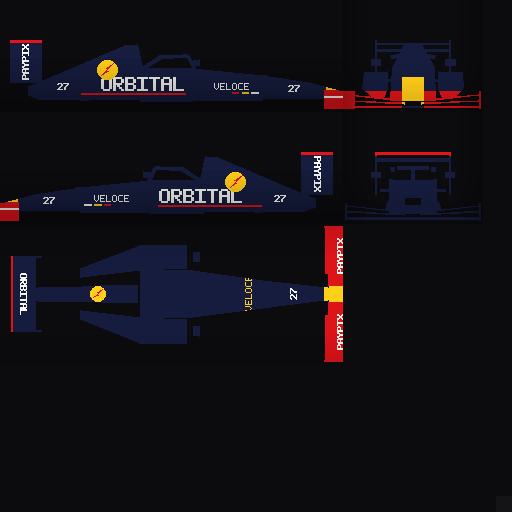
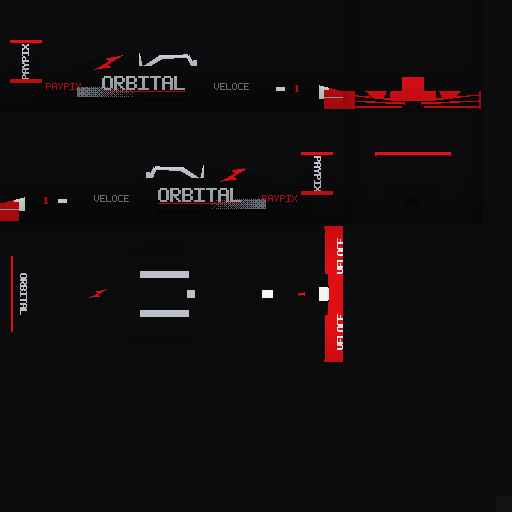
Repaint the Veloce F1 black with red and silver
Gloss black with a matte undercut, a red charging bolt on the engine cover,
red and white nose tip, red wing elements with grey-white lettering, red
endplate details, a silver halo, silver-grey ORBITAL on the sidepods with a
dithered metallic fade behind it, number 1 and a dark helmet.

diff --git a/art/cars/paint_skin.py b/art/cars/paint_skin.py
@@ -461,62 +461,83 @@ def paint_pleiad(sk):
 # --------------------------------------------------------------------------- the F1 car
 
 def paint_veloce(sk):
-    """Modern works F1 livery: matte navy, yellow nose tip, red wing elements,
-    a red bolt on a yellow sun disc on the engine cover, big white sponsors
-    (made-up ORBITAL and PAYPIX), number 27."""
-    navy = rgb(0.09, 0.11, 0.24)
-    sun = rgb(1.0, 0.8, 0.1)
-    red = rgb(0.86, 0.08, 0.1)
-    base(sk, navy)
+    """Black works F1 livery: gloss black with red highlights, a red charging
+    bolt on the engine cover, red wing elements and endplate details, a
+    silver halo, silver-grey sponsors (made-up ORBITAL and PAYPIX) and a
+    dithered metallic fade along the sidepod flanks. Number 1."""
+    black = rgb(0.045, 0.045, 0.05)
+    matte = rgb(0.03, 0.03, 0.035)
+    red = rgb(0.86, 0.06, 0.08)
+    silver = rgb(0.72, 0.74, 0.78)
+    grey = rgb(0.5, 0.52, 0.56)
+    base(sk, black)
 
-    def bolt(c, r):
-        """Red lightning bolt across a sun disc of radius r (pixels) at c."""
-        sk.disc(c, r, sun)
+    def bolt(c, r, col):
+        """Charging bolt, about r pixels from its centre to its tips."""
         x, y = c
-        pts = [(x - 0.55 * r, y + 0.5 * r), (x + 0.05 * r, y - 0.05 * r), (x - 0.1 * r, y - 0.15 * r),
-               (x + 0.6 * r, y - 0.6 * r), (x - 0.05 * r, y + 0.05 * r), (x + 0.1 * r, y + 0.15 * r)]
-        sk.paint(lambda d: d.polygon(pts, fill=red))
+        pts = [(x - 1.0 * r, y + 0.45 * r), (x + 0.05 * r, y - 0.1 * r), (x - 0.15 * r, y - 0.3 * r),
+               (x + 1.0 * r, y - 0.55 * r), (x - 0.05 * r, y + 0.1 * r), (x + 0.15 * r, y + 0.3 * r)]
+        sk.paint(lambda d: d.polygon(pts, fill=col))
+
+    def fade(side, y0, y1, z0, z1, a, b):
+        """Ordered-dither fade from colour a at y0 to colour b at y1."""
+        p0, p1 = sk.side_pt(side, y0, z0), sk.side_pt(side, y1, z1)
+        bayer = ((0, 8, 2, 10), (12, 4, 14, 6), (3, 11, 1, 9), (15, 7, 13, 5))
+
+        def draw(d):
+            xa, xb = sorted((round(p0[0]), round(p1[0])))
+            ya, yb = sorted((round(p0[1]), round(p1[1])))
+            for x in range(xa, xb):
+                t = (x - p0[0]) / (p1[0] - p0[0])
+                for y in range(ya, yb):
+                    d.point((x, y), fill=b if t * 16 > bayer[y % 4][x % 4] + 0.5 else a)
+        sk.paint(draw)
 
     for side in (-1, 1):
-        # nose tip, front wing endplates, number on the nose
-        sk.side_box(side, 2.2, 2.6, 0.0, 0.6, sun)
+        # red and white nose tip, red front wing endplates with a grey stripe
+        sk.side_box(side, 2.25, 2.6, 0.0, 0.6, red)
+        sk.side_box(side, 2.1, 2.25, 0.0, 0.6, WHITE)
         sk.side_box(side, 2.18, 2.62, 0.04, 0.31, red)
-        sk.side_box(side, 2.18, 2.62, 0.2, 0.23, WHITE)
-        sk.text("27", sk.side_pt(side, 1.75, 0.33), 7, WHITE, bold=True)
-        # sidepods: the big sponsor, a stripe and small stickers
-        sk.text("ORBITAL", sk.side_pt(side, -0.42, 0.4), 14, WHITE, bold=True)
-        sk.side_box(side, 0.2, -1.3, 0.24, 0.27, red)
-        for i, col in enumerate((WHITE, sun, red)):
-            yy = 1.25 - i * 0.14
-            sk.side_box(side, yy, yy - 0.11, 0.25, 0.29, col)
-        # engine cover: sun disc and bolt, number further back
-        bolt(sk.side_pt(side, -0.92, 0.6), 0.15 * sk.s)
-        sk.text("27", sk.side_pt(side, -1.55, 0.36), 7, WHITE, bold=True)
-        sk.text("VELOCE", sk.side_pt(side, 0.85, 0.36), 7, WHITE)
-        # rear wing endplates: sponsor up the plate
+        sk.side_box(side, 2.18, 2.62, 0.2, 0.22, silver)
+        sk.text("1", sk.side_pt(side, 1.8, 0.34), 7, red, bold=True)
+        sk.side_box(side, 1.62, 1.5, 0.3, 0.36, WHITE)
+        # sidepods: big light-grey sponsor, metallic fade to the gearbox, matte undercut
+        fade(side, -0.5, -1.35, 0.15, 0.36, black, grey)
+        sk.side_box(side, 0.22, -1.35, 0.15, 0.22, matte)
+        sk.text("ORBITAL", sk.side_pt(side, -0.4, 0.42), 14, silver, bold=True)
+        sk.side_box(side, 0.2, -0.95, 0.28, 0.3, red)
+        # engine cover: the red charging bolt by the airbox, small red logos
+        bolt(sk.side_pt(side, -0.9, 0.7), 0.2 * sk.s, red)
+        sk.text("PAYPIX", sk.side_pt(side, -1.55, 0.36), 7, red)
+        sk.text("VELOCE", sk.side_pt(side, 0.85, 0.36), 7, grey)
+        # silver halo, red rear wing endplate details
+        sk.side_box(side, 0.36, -0.46, 0.66, 0.84, silver)
         x0, y0 = sk.side_pt(side, -2.08, 0.72)
-        sk.text("PAYPIX", (x0, y0), 7, WHITE, rotate=90 * side, bold=True)
+        sk.text("PAYPIX", (x0, y0), 7, silver, rotate=90 * side, bold=True)
         sk.side_box(side, -1.85, -2.31, 0.98, 1.03, red)
+        sk.side_box(side, -1.85, -2.31, 0.42, 0.47, red)
 
-    # top: yellow nose tip, red wing elements with sponsors, number, engine
-    # cover bolt, rear wing sponsor reading from behind
-    sk.top_box(-0.12, 0.12, 2.18, 2.6, sun)
+    # top: red/white nose, red wing elements with grey-white lettering, halo,
+    # the bolt on the engine cover, rear wing sponsor
+    sk.top_box(-0.12, 0.12, 2.25, 2.6, red)
+    sk.top_box(-0.12, 0.12, 2.1, 2.25, WHITE)
     for sx in (-1, 1):
         sk.top_box(sx * 0.12, sx * 1.0, 2.15, 2.6, red)
-        sk.text("PAYPIX", sk.px("top", (sx * 0.55, 2.41, 0)), 7, WHITE, rotate=90, bold=True)
-    sk.text("27", sk.px("top", (0.0, 1.75, 0)), 7, WHITE, rotate=90, bold=True)
-    sk.text("VELOCE", sk.px("top", (0.0, 1.1, 0)), 7, sun, rotate=90)
-    bolt(sk.px("top", (0.0, -1.05, 0)), 0.11 * sk.s)
-    sk.text("ORBITAL", sk.px("top", (0.0, -2.12, 0)), 7, WHITE, rotate=-90, bold=True)
+        sk.text("VELOCE", sk.px("top", (sx * 0.55, 2.41, 0)), 7, rgb(0.9, 0.9, 0.9), rotate=90, bold=True)
+        sk.top_box(sx * 0.23, sx * 0.33, 0.25, -0.45, silver)
+    sk.text("1", sk.px("top", (0.0, 1.85, 0)), 7, red, rotate=90, bold=True)
+    sk.top_box(-0.05, 0.05, 1.45, 1.3, WHITE)
+    sk.top_box(-0.05, 0.05, 0.33, 0.22, silver)
+    bolt(sk.px("top", (0.0, -1.05, 0)), 0.12 * sk.s, red)
+    sk.text("ORBITAL", sk.px("top", (0.0, -2.12, 0)), 7, silver, rotate=-90, bold=True)
     sk.top_box(-0.6, 0.6, -2.26, -2.3, red)
 
-    # front: nose tip and wing faces; rear: rain light surround, beam wing
-    sk.end_box(True, -0.15, 0.15, 0.1, 0.5, sun)
+    # front: nose and wing faces; rear: rear wing edge, rain light surround
+    sk.end_box(True, -0.15, 0.15, 0.1, 0.5, red)
     sk.end_box(True, -1.0, -0.15, 0.04, 0.3, red)
     sk.end_box(True, 0.15, 1.0, 0.04, 0.3, red)
-    sk.end_box(False, -0.6, 0.6, 0.85, 1.05, navy)
     sk.end_box(False, -0.6, 0.6, 0.97, 1.03, red)
-    sk.end_box(False, -0.12, 0.12, 0.27, 0.37, BLACK)
+    sk.end_box(False, -0.12, 0.12, 0.27, 0.37, matte)
 
     finish(sk, wheels=())
 

diff --git a/README.md b/README.md
@@ -60,7 +60,7 @@ race from the menu (a restart keeps the same weather).
 | Falke RS | White, big whale-tail wing | Stable, slightly grippier |
 | Cuneo Stradale | Short wedge, green nose | Lightest, sharpest turn-in, least grip |
 | Kart 125 | Go-kart with the driver out in the open | Tiny and twitchy: quickest turn-in, about 110 km/h flat out |
-| Veloce F1 | Modern single-seater: halo, sidepods, multi-element wings, navy with a sun-and-bolt livery | About 225 km/h, fierce acceleration, downforce gives more grip the faster it goes; hopeless off the tarmac |
+| Veloce F1 | Modern single-seater: halo, sidepods, multi-element wings, black with red and silver | About 225 km/h, fierce acceleration, downforce gives more grip the faster it goes; hopeless off the tarmac |
 | KPz Pardel | Boxy German-style tank in NATO camo, wedge turret, stabilised gun | Just for fun: slow, grippy, pivots on the spot, shrugs off most damage; skirts, lights and the turret basket get knocked off |
 
 The rally cars are kept close (a few percent) so times stay comparable; the
